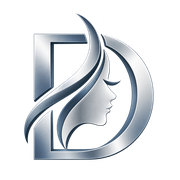
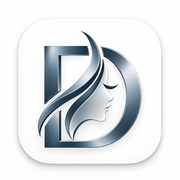
Corregir error al eliminar un servicio con sesiones registradas
serviceId en ClientSessionService tiene ON DELETE RESTRICT (no se pierde
el historial de sesiones), pero el error de Prisma no se atrapaba y
rompía la página. Ahora se informa con un mensaje claro y se sugiere
despublicar el servicio en su lugar.

De paso, reemplaza el ícono/favicon por icono_v2 (ya viene con el fondo
cuadrado redondeado tipo ícono de app).

Claude-Session: https://claude.ai/code/session_01YaJXomDnnZ4FSSdc55kRFb

diff --git a/app/admin/(protected)/servicios/page.tsx b/app/admin/(protected)/servicios/page.tsx
@@ -6,7 +6,12 @@ import { Button } from "@/components/ui/button";
 import { ConfirmSubmitButton } from "@/components/admin/ConfirmSubmitButton";
 import { deleteService, moveService, setServiceStatus } from "./actions";
 
-export default async function AdminServiciosPage() {
+export default async function AdminServiciosPage({
+  searchParams,
+}: {
+  searchParams: Promise<{ error?: string }>;
+}) {
+  const { error } = await searchParams;
   const services = await prisma.service.findMany({ orderBy: { order: "asc" } });
 
   return (
@@ -17,6 +22,13 @@ export default async function AdminServiciosPage() {
           <Button>Nuevo servicio</Button>
         </Link>
       </div>
+
+      {error === "tiene-sesiones" && (
+        <p className="mt-4 rounded-brand border border-red-200 bg-red-50 px-4 py-3 text-sm text-red-700">
+          No se puede eliminar: este servicio ya tiene sesiones registradas. Despublicalo en su
+          lugar si no querés seguir ofreciéndolo.
+        </p>
+      )}
 
       <div className="mt-6 overflow-x-auto rounded-brand border border-brand-border bg-brand-surface">
         <table className="w-full text-left text-sm">

diff --git a/app/admin/(protected)/servicios/actions.ts b/app/admin/(protected)/servicios/actions.ts
@@ -1,6 +1,7 @@
 "use server";
 
 import { z } from "zod";
+import { Prisma } from "@prisma/client";
 import { revalidatePath } from "next/cache";
 import { redirect } from "next/navigation";
 import { prisma } from "@/lib/prisma";
@@ -57,10 +58,20 @@ export async function updateService(id: string, formData: FormData) {
 
 export async function deleteService(id: string) {
   await requireAdminSession();
-  await prisma.service.delete({ where: { id } });
+  try {
+    await prisma.service.delete({ where: { id } });
+  } catch (error) {
+    // El servicio tiene sesiones registradas (ON DELETE RESTRICT): no se
+    // borra el historial. Se informa en vez de romper la página.
+    if (error instanceof Prisma.PrismaClientKnownRequestError && error.code === "P2003") {
+      redirect("/admin/servicios?error=tiene-sesiones");
+    }
+    throw error;
+  }
   revalidatePath("/admin/servicios");
   revalidatePath("/tratamientos");
   revalidatePath("/");
+  redirect("/admin/servicios");
 }
 
 export async function setServiceStatus(id: string, status: "DRAFT" | "PUBLISHED") {
